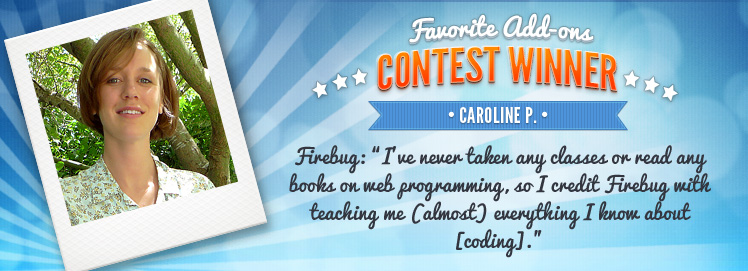
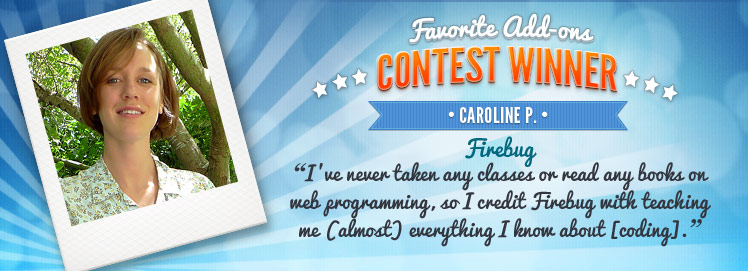
tweak contest winner promos, capitalization (bug 771387)

Changed region(s): [[0.369, 0.5018, 0.9532, 0.9446]]

diff --git a/media/css/impala/promos.less b/media/css/impala/promos.less
@@ -485,8 +485,7 @@
     .pager {
         position: absolute;
         width: 90px;
-        left: 50%;
-        margin-left: -45px;
+        left: 460px;
         top: 245px;
         a {
             background: url(../../img/zamboni/discovery_pane/pager-nav.png) 100% 0 no-repeat;
